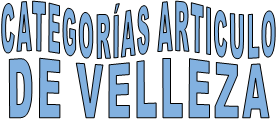
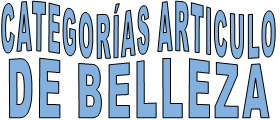
nuevov8

Changed region(s): [[0.2571, 0.5, 0.3714, 1.0]]

diff --git a/css/index.css b/css/index.css
@@ -38,7 +38,7 @@ body
    --border-width: 1px;
    --color: #333333;
    --icon-color: #444444;
-   --colorize: invert(25%) sepia(0%) saturate(0%) hue-rotate(160deg) brightness(99%) contrast(92%);
+   --colorize: invert(23%) sepia(6%) saturate(20%) hue-rotate(44deg) brightness(97%) contrast(85%);
 }
 .wb-theme-button, .wb-theme-static
 {
@@ -100,7 +100,7 @@ body
    --border-width: 1px;
    --color: #CCCCCC;
    --icon-color: #3370B7;
-   --colorize: invert(39%) sepia(50%) saturate(748%) hue-rotate(171deg) brightness(91%) contrast(88%);
+   --colorize: invert(39%) sepia(90%) saturate(425%) hue-rotate(173deg) brightness(85%) contrast(95%);
 }
 .darktheme .wb-theme-button, .darktheme .wb-theme-static
 {

diff --git a/categoria_articulo-de-belleza.html b/categoria_articulo-de-belleza.html
@@ -61,7 +61,7 @@
             <div class="col-1">
                <hr id="DividerLine2">
                <div id="wb_TextArt2">
-                  <img src="images/img0013.png" id="TextArt2" alt="CATEGORÍAS ARTICULO  DE VELLEZA" title="CATEGORÍAS ARTICULO  DE VELLEZA" width="280" height="120">
+                  <img src="images/img0013.png" id="TextArt2" alt="CATEGORÍAS ARTICULO  DE BELLEZA" title="CATEGORÍAS ARTICULO  DE BELLEZA" width="280" height="120">
                </div>
             </div>
          </div>
